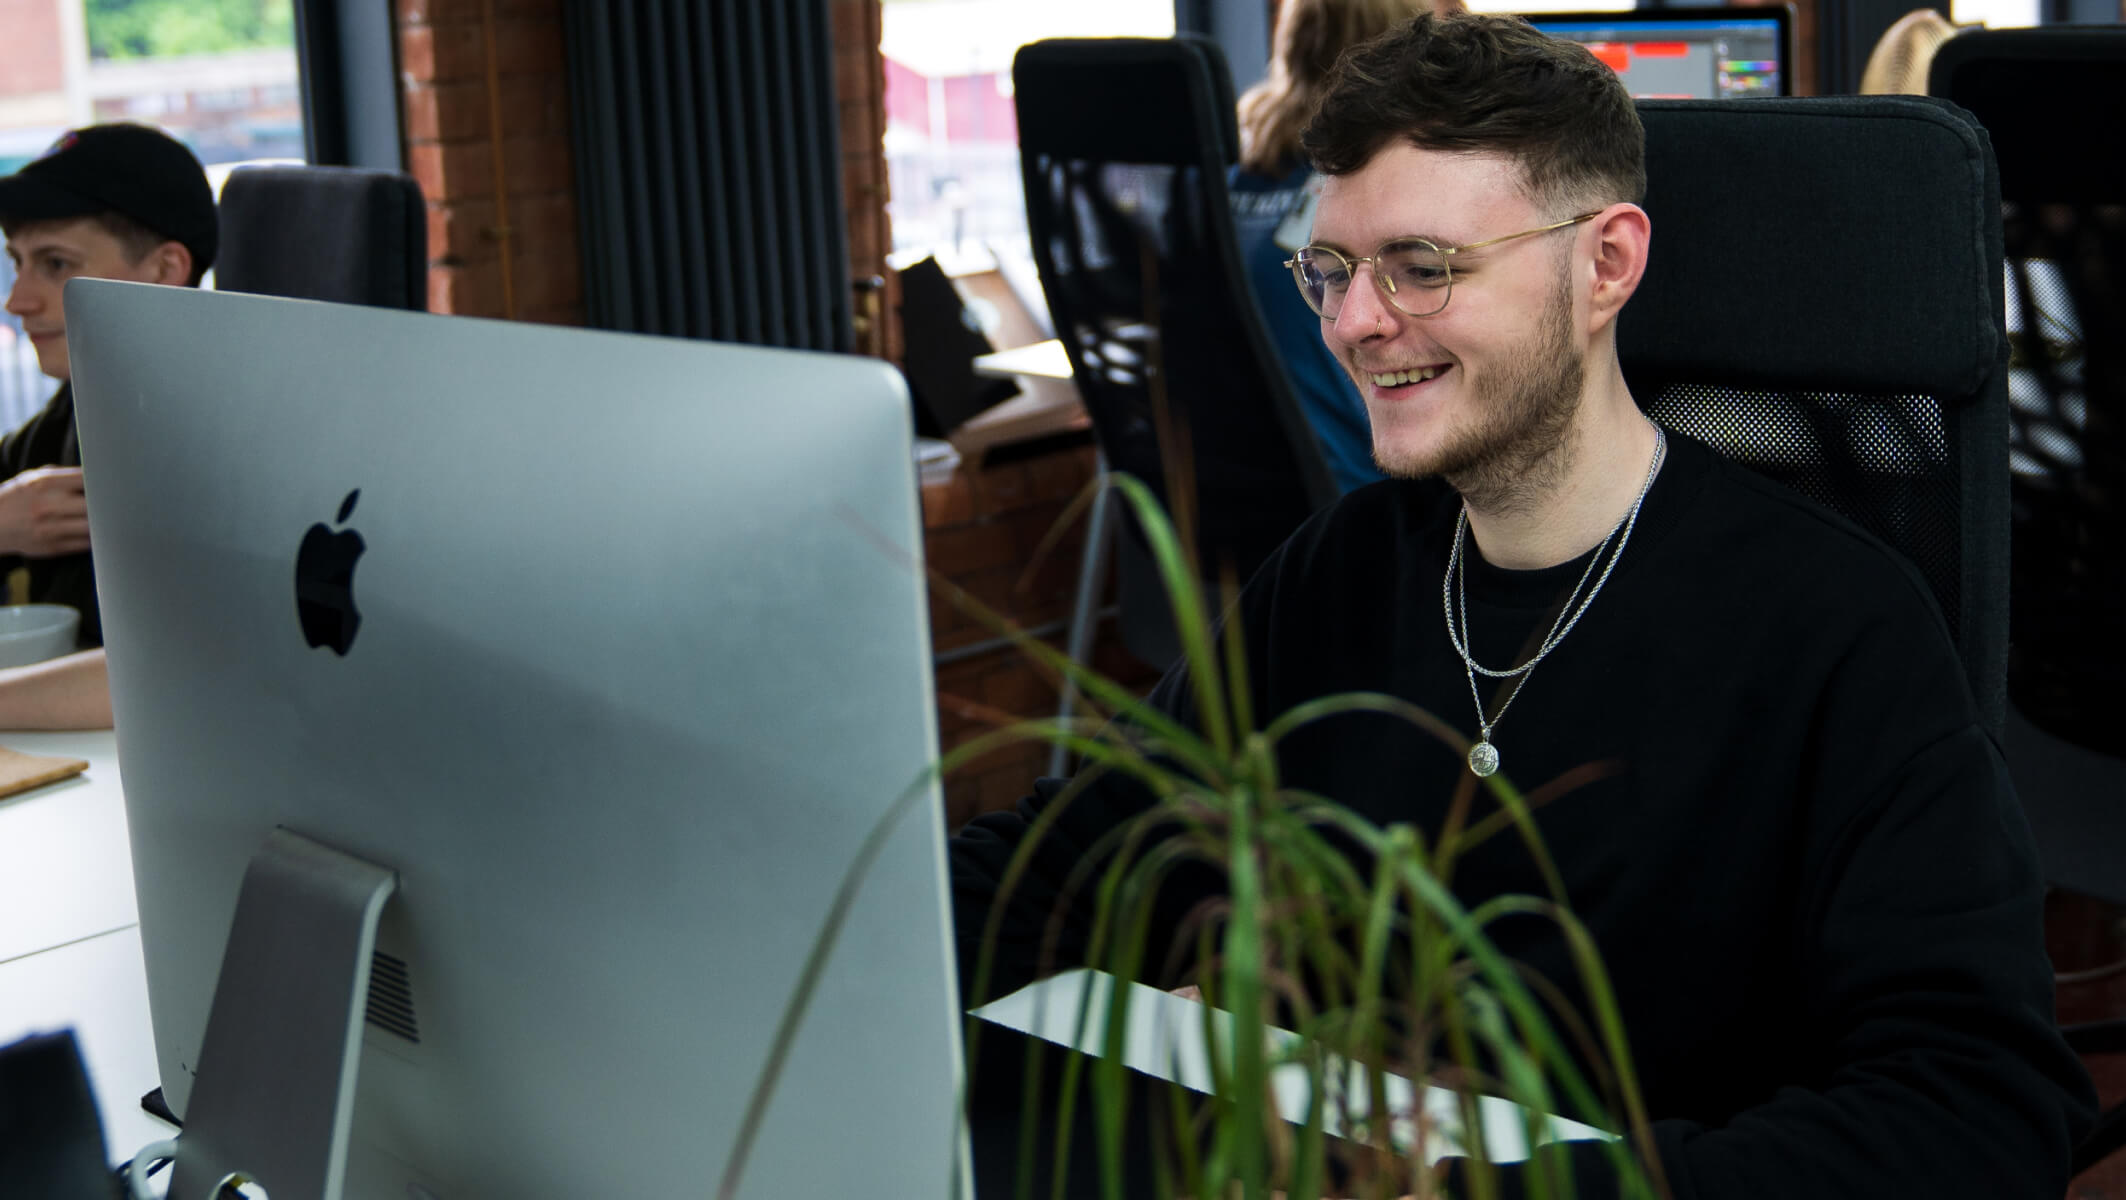
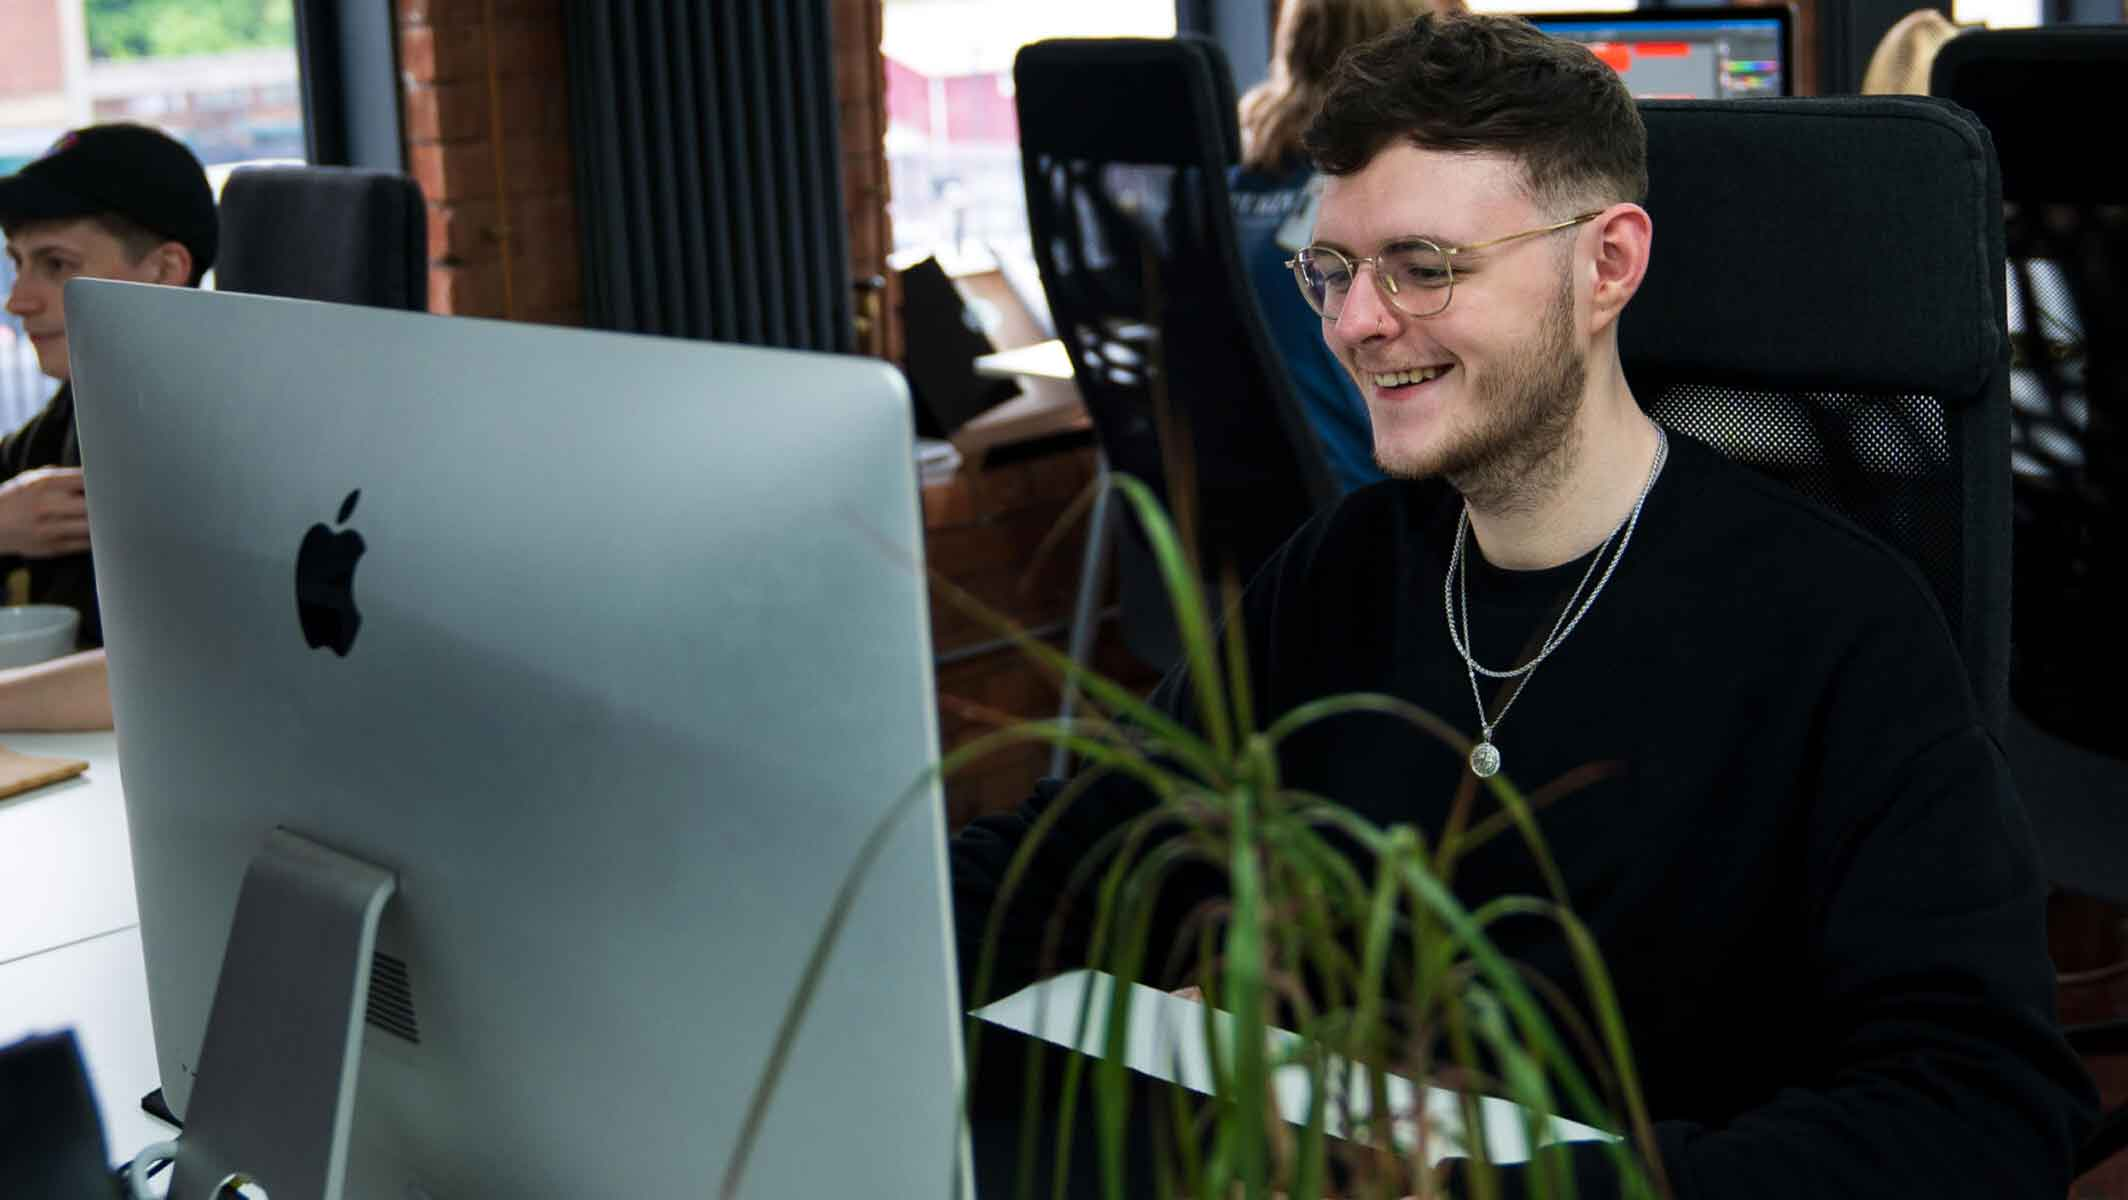
Add blog feed images

diff --git a/index.html b/index.html
@@ -24,9 +24,10 @@
         <div class="header-nav-collapse" id="NavCollapse">
             <nav class="header-nav">
                 <ul class="list-unstyled">
-                    <li><a href="#">Home</a></li>
-                    <li><a href="#">About</a></li>
-                    <li><a href="#">Contact</a></li>
+                    <li><a href="#">Brand</a></li>
+                    <li><a href="#">Studio</a></li>
+                    <li><a href="#">Production</a></li>
+                    <li><a href="#">Activation</a></li>
                 </ul>
             </nav>
         </div>
@@ -49,7 +50,7 @@
             <div class="post-body">
                 <div class="container">
                     <div class="hero-image">
-                        <img src="./images/img-feed-1.jpg" alt="" class="img-fluid">
+                        <img src="./images/img-feed-3.jpg" alt="" class="img-fluid">
                     </div>
     
                     <div class="post-meta">
@@ -69,6 +70,10 @@
                         <p>Zarach provides beds and basics to children and families living in poverty across Leeds and surrounding areas. The aim is to give every child the basic resources they need to have a good night's sleep and a meal in their tummy so they can thrive at school. </p>
 
                         <p>The charity was established by Assistant Head Teacher, Bex Wilson, in 2017 and has since helped thousands of families. “It surprises people how many kids in Leeds don’t have beds. It surprised me!” said Wilson.</p>
+
+                        <p class="post-image">
+                            <img src="./images/img-feed-2.jpg" alt="" class="img-fluid">
+                        </p>
 
                         <p>The partnership was formed in 2021 and has been running for the last year. During this, FYI have donated digital and print collateral, such as; flyers, wristbands, donation bucket stickers, donation envelopes, thank you certificates and more to help raise the awareness of Zarach and support its services, which saw a surge in demand since the pandemic.</p>
 

diff --git a/style.css b/style.css
@@ -246,6 +246,11 @@ p {
     line-height: 1.4;
 }
 
+.post-image {
+    margin-top: 3rem;
+    margin-bottom: 3rem;
+}
+
 .social svg {
     display: block;
     width: 1.5rem;
@@ -376,6 +381,11 @@ p {
     .post-main p:first-child {
         font-size: 2rem;
     }
+
+    .post-image {
+        margin-top: 5rem;
+        margin-bottom: 5rem;
+    }
 }
 
 @media (min-width: 992px) {
@@ -400,6 +410,6 @@ p {
 
 @media (min-width: 1200px) {
     .container {
-        max-width: 1063px;
+        max-width: 1112px;
     }
 }
